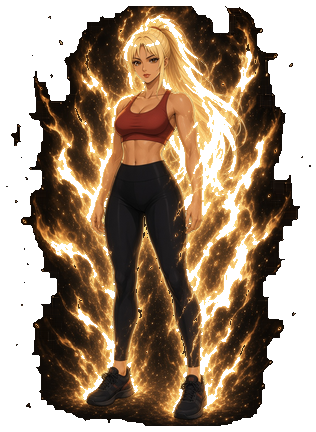
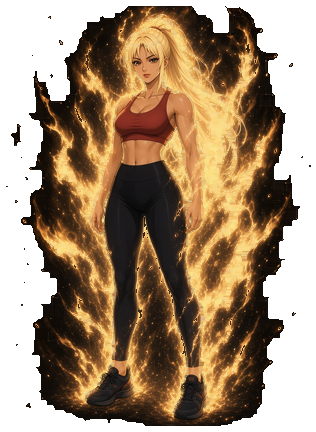
Pintar la transformación a sangre y marcar Biblioteca.
Las veinte placas son RGB opaco sobre el fondo de la app: Nova reutiliza los mockups y el resto conserva el personaje mientras la energía sube de Chispa a Absoluto. La pantalla ya no recorta ni dibuja el óvalo en CSS. La fila de músculos deja ver Todos, Pecho, Espalda y Pierna, y la pestaña de Biblioteca queda activa.

diff --git a/src/styles/premium.css b/src/styles/premium.css
@@ -165,6 +165,7 @@ a { color: #f4f1ea; }
   padding-bottom: 0;
   background: #07090f;
   border-top: 1px solid #2a3142;
+  grid-template-columns: repeat(5, 1fr);
 }
 
 .tab {
@@ -946,103 +947,41 @@ a { color: #f4f1ea; }
 }
 
 .transform-screen {
-  background: #07090f;
-}
-
-.manga-transform {
-  position: relative;
-  display: grid;
-  place-items: end center;
-  background: #07090f;
+  display: block;
   overflow: hidden;
-  min-height: 0;
+  background: #07090f;
 }
 
-.ki-stage {
+.transform-screen::after {
+  content: "";
   position: absolute;
-  inset: 0;
-  z-index: 0;
+  left: 0;
+  right: 0;
+  bottom: 0;
+  z-index: 1;
+  height: 55%;
   pointer-events: none;
-  transform-origin: center 74%;
-}
-
-.ki-glow {
-  position: absolute;
-  left: 50%;
-  bottom: -4%;
-  width: calc(118% + var(--ki-power) * 70%);
-  height: calc(88% + var(--ki-power) * 28%);
-  transform: translateX(-50%);
-  background: radial-gradient(
-    ellipse at 50% 72%,
-    var(--ki-hot) 0%,
-    var(--ki) 24%,
-    var(--ki) 42%,
-    #07090f 47%
-  );
-}
-
-.ki-rays {
-  position: absolute;
-  left: 50%;
-  bottom: -2%;
-  width: calc(150% + var(--ki-power) * 70%);
-  height: calc(96% + var(--ki-power) * 20%);
-  transform: translateX(-50%);
-  background: repeating-conic-gradient(
-    from -14deg at 50% 76%,
-    var(--ki-hot) 0deg 1.5deg,
-    transparent 2.1deg calc(11deg - var(--ki-power) * 3deg)
-  );
-  mask-image: radial-gradient(ellipse at 50% 76%, #000 0 8%, #000 42%, transparent 64%);
-}
-
-.ki-svg {
-  position: absolute;
-  inset: 0;
-  width: 100%;
-  height: 100%;
-}
-
-.ki-flame {
-  fill: var(--ki);
-}
-
-.ki-flame.is-hot {
-  fill: var(--ki-hot);
-}
-
-.ki-bolt {
-  fill: none;
-  stroke: var(--ki-bolt);
-  stroke-width: calc(1.6px + var(--ki-power) * 2px);
-  stroke-linejoin: round;
-  stroke-linecap: round;
-}
-
-.ki-ring {
-  fill: none;
-  stroke: var(--ki-hot);
-  stroke-width: calc(2.4px + var(--ki-power) * 2.2px);
-}
-
-.ki-spark {
-  fill: var(--ki-bolt);
+  background: linear-gradient(180deg, rgba(7, 9, 15, 0) 0%, rgba(7, 9, 15, 0.62) 36%, #07090f 52%);
 }
 
 .transform-avatar {
-  position: relative;
-  z-index: 1;
-  width: min(260px, 72vw);
-  max-height: 56dvh;
+  position: absolute;
+  inset: 0;
+  z-index: 0;
+  width: auto;
+  max-height: none;
 }
 
+.transform-plate,
 .transform-avatar img {
+  display: block;
   width: 100%;
-  max-height: 56dvh;
-  object-fit: contain;
-  object-position: center bottom;
-  background: transparent;
+  height: 100%;
+  max-height: none;
+  object-fit: cover;
+  object-position: center top;
+  background: #07090f;
+  transform-origin: center 38%;
 }
 
 .transform-caption,
@@ -1054,8 +993,13 @@ a { color: #f4f1ea; }
 }
 
 .transform-caption {
-  padding-left: 20px;
-  padding-right: 20px;
+  position: absolute;
+  left: 0;
+  right: 0;
+  bottom: 0;
+  z-index: 2;
+  padding: 0 22px 28px;
+  background: none;
 }
 
 .transform-eyebrow {
@@ -1067,7 +1011,8 @@ a { color: #f4f1ea; }
   text-transform: uppercase;
 }
 
-.transform-caption h2 {
+.transform-caption h2,
+.transform-follow h2 {
   font-family: Inter, "Segoe UI", sans-serif;
   font-size: 34px;
   font-weight: 700;
@@ -1077,34 +1022,15 @@ a { color: #f4f1ea; }
 }
 
 @media (prefers-reduced-motion: no-preference) {
-  .transform-screen .ki-stage {
-    animation: ki-enter 1.5s ease-out both;
-  }
-
-  .transform-screen .ki-ring {
-    transform-box: fill-box;
-    transform-origin: center;
-    animation: ki-ring 1.5s ease-out both;
-  }
-
-  .transform-screen .transform-avatar {
-    animation: ki-figure 1.5s ease-out both;
+  .transform-plate {
+    animation: plate-in 1.5s ease-out both;
   }
 }
 
-@keyframes ki-enter {
-  0% { transform: scale(0.72); }
-  100% { transform: scale(1); }
-}
-
-@keyframes ki-ring {
-  0% { opacity: 0; transform: scale(0.35); }
-  100% { opacity: 1; transform: scale(1); }
-}
-
-@keyframes ki-figure {
-  0% { opacity: 0; transform: translateY(12px) scale(0.94); }
-  100% { opacity: 1; transform: none; }
+@keyframes plate-in {
+  0% { transform: scale(1.12); filter: brightness(1.7); }
+  22% { transform: scale(1.04); filter: brightness(1.15); }
+  100% { transform: scale(1); filter: none; }
 }
 
 .transform-follow .btn { width: min(350px, 100%); }
@@ -1534,6 +1460,12 @@ a { color: #f4f1ea; }
 
 .muscle-row .chip {
   flex: 0 0 auto;
+  width: auto;
+  white-space: nowrap;
+}
+
+.screen.library {
+  padding-bottom: calc(56px + 12px + 36px + env(safe-area-inset-bottom, 0px));
 }
 
 .btn-filter {

diff --git a/src/ui/Shell.tsx b/src/ui/Shell.tsx
@@ -5,7 +5,7 @@ import { rankForXp } from '../domain/ranks';
 import { useApp } from '../state/app-state';
 import { Avatar } from './Avatar';
 
-type TabId = 'hoy' | 'plan' | 'historial' | 'tu';
+type TabId = 'hoy' | 'plan' | 'biblioteca' | 'historial' | 'tu';
 
 function TabGlyph({ id }: { id: TabId }): ReactElement {
   const common = {
@@ -34,6 +34,14 @@ function TabGlyph({ id }: { id: TabId }): ReactElement {
           <path d="M8 3.5v3M16 3.5v3M4 10h16" />
         </svg>
       );
+    case 'biblioteca':
+      return (
+        <svg {...common}>
+          <path d="M5 4.5h10.5v15H5z" />
+          <path d="M15.5 7H19v12.5H9" />
+          <path d="M8 8.5h5M8 12h5" />
+        </svg>
+      );
     case 'historial':
       return (
         <svg {...common}>
@@ -59,6 +67,8 @@ function tabId(to: string): TabId {
       return 'hoy';
     case '/plan':
       return 'plan';
+    case '/biblioteca':
+      return 'biblioteca';
     case '/historial':
       return 'historial';
     case '/tu':
@@ -71,7 +81,7 @@ function tabId(to: string): TabId {
 const LINKS = [
   { to: '/', label: 'Hoy', end: true, wide: false },
   { to: '/plan', label: 'Plan', end: false, wide: false },
-  { to: '/biblioteca', label: 'Biblioteca', end: false, wide: true },
+  { to: '/biblioteca', label: 'Biblioteca', end: false, wide: false },
   { to: '/historial', label: 'Historial', end: false, wide: false },
   { to: '/reto', label: 'Reto', end: false, wide: true },
   { to: '/poder', label: 'Poder', end: false, wide: true },
@@ -113,8 +123,10 @@ export function Shell(): ReactElement {
               : link.to === '/historial'
                 ? pathname.startsWith('/historial')
                 : link.to === '/plan'
-                  ? pathname.startsWith('/plan') || pathname.startsWith('/biblioteca')
-                  : pathname === '/';
+                  ? pathname.startsWith('/plan')
+                  : link.to === '/biblioteca'
+                    ? pathname.startsWith('/biblioteca')
+                    : pathname === '/';
           return (
             <NavLink key={link.to} to={link.to} end={link.end} className={active ? 'tab is-active' : 'tab'} aria-current={active ? 'page' : undefined}>
               <TabGlyph id={tabId(link.to)} />

diff --git a/src/ui/Transformacion.tsx b/src/ui/Transformacion.tsx
@@ -3,7 +3,6 @@ import type { RankId } from '../catalog/types';
 import { unlockAudio, playRankRise } from '../audio/tones';
 import { labelRank } from '../domain/labels';
 import { useApp } from '../state/app-state';
-import { KiStage } from './KiStage';
 import { transformAvatarSrc } from './manga-art';
 
 type Phase = 'desde' | 'salto' | 'destino';
@@ -75,14 +74,11 @@ export function Transformacion({
   }, []);
 
   return (
-    <div className="transform-screen" role="dialog" aria-modal="true" aria-labelledby="transform-title" ref={root}>
-      <div className={`manga-transform is-${phase}`} data-rank={rank}>
-        <KiStage rank={rank} />
-        {phase === 'salto' ? <div className="manga-flash" aria-hidden="true" /> : null}
-        <div className="transform-avatar">
-          <img src={transformAvatarSrc(gender, rank)} alt="" />
-        </div>
+    <div className={`transform-screen is-${phase}`} role="dialog" aria-modal="true" aria-labelledby="transform-title" ref={root}>
+      <div className="transform-avatar">
+        <img className="transform-plate" src={transformAvatarSrc(gender, rank)} alt="" />
       </div>
+      {phase === 'salto' ? <div className="manga-flash" aria-hidden="true" /> : null}
       <div className="transform-caption">
         <div className="transform-follow" hidden={!ready}>
           <p className="transform-eyebrow">Subida de rango</p>

diff --git a/src/ui/manga-art.ts b/src/ui/manga-art.ts
@@ -16,7 +16,7 @@ export function avatarSrc(gender: AvatarGender, rank: RankId): string {
 
 export function transformAvatarSrc(gender: AvatarGender, rank: RankId): string {
   const folder = gender === 'mujer' ? 'female' : 'male';
-  return `/design/premium/avatar-transform/${folder}/${rank}.png`;
+  return `/design/premium/transform-plate/${folder}/${rank}.png`;
 }
 
 export function poseSrc(gender: AvatarGender, pose: AvatarPose): string | null {

diff --git a/src/pages/LibraryPage.tsx b/src/pages/LibraryPage.tsx
@@ -36,7 +36,7 @@ export function LibraryPage(): ReactElement {
   }
 
   return (
-    <main className="screen">
+    <main className="screen library">
       <header className="lib-head">
         <h1>Biblioteca</h1>
         <button type="button" className="lib-icon lib-add" aria-label="Crear ejercicio" onClick={() => setCreating(true)}>
